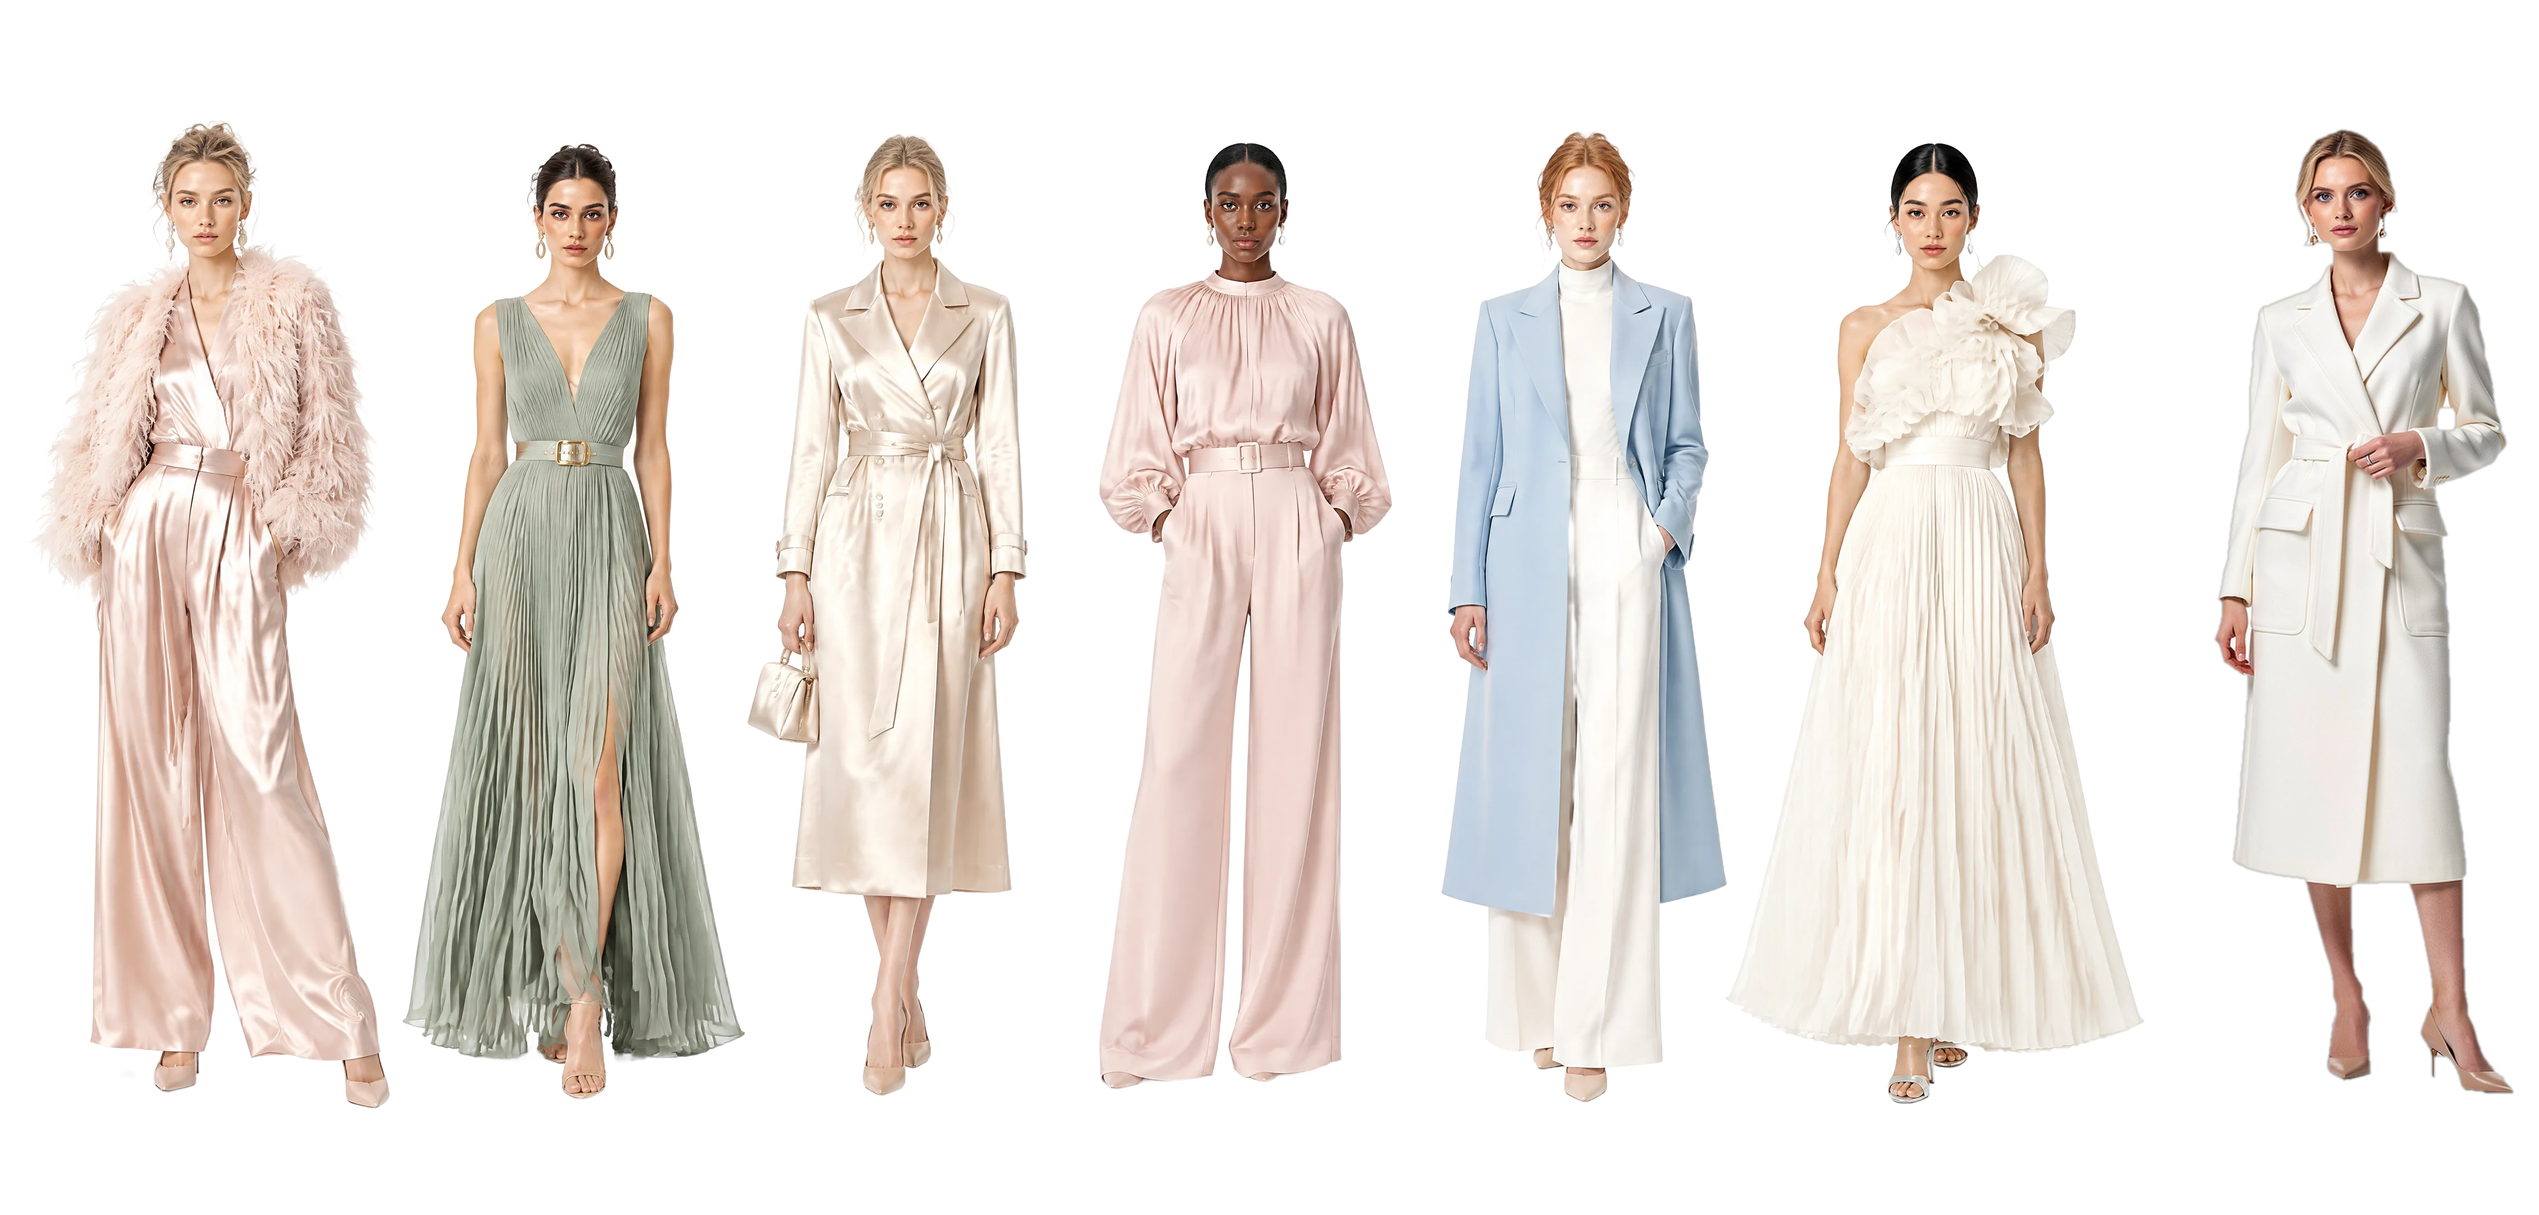
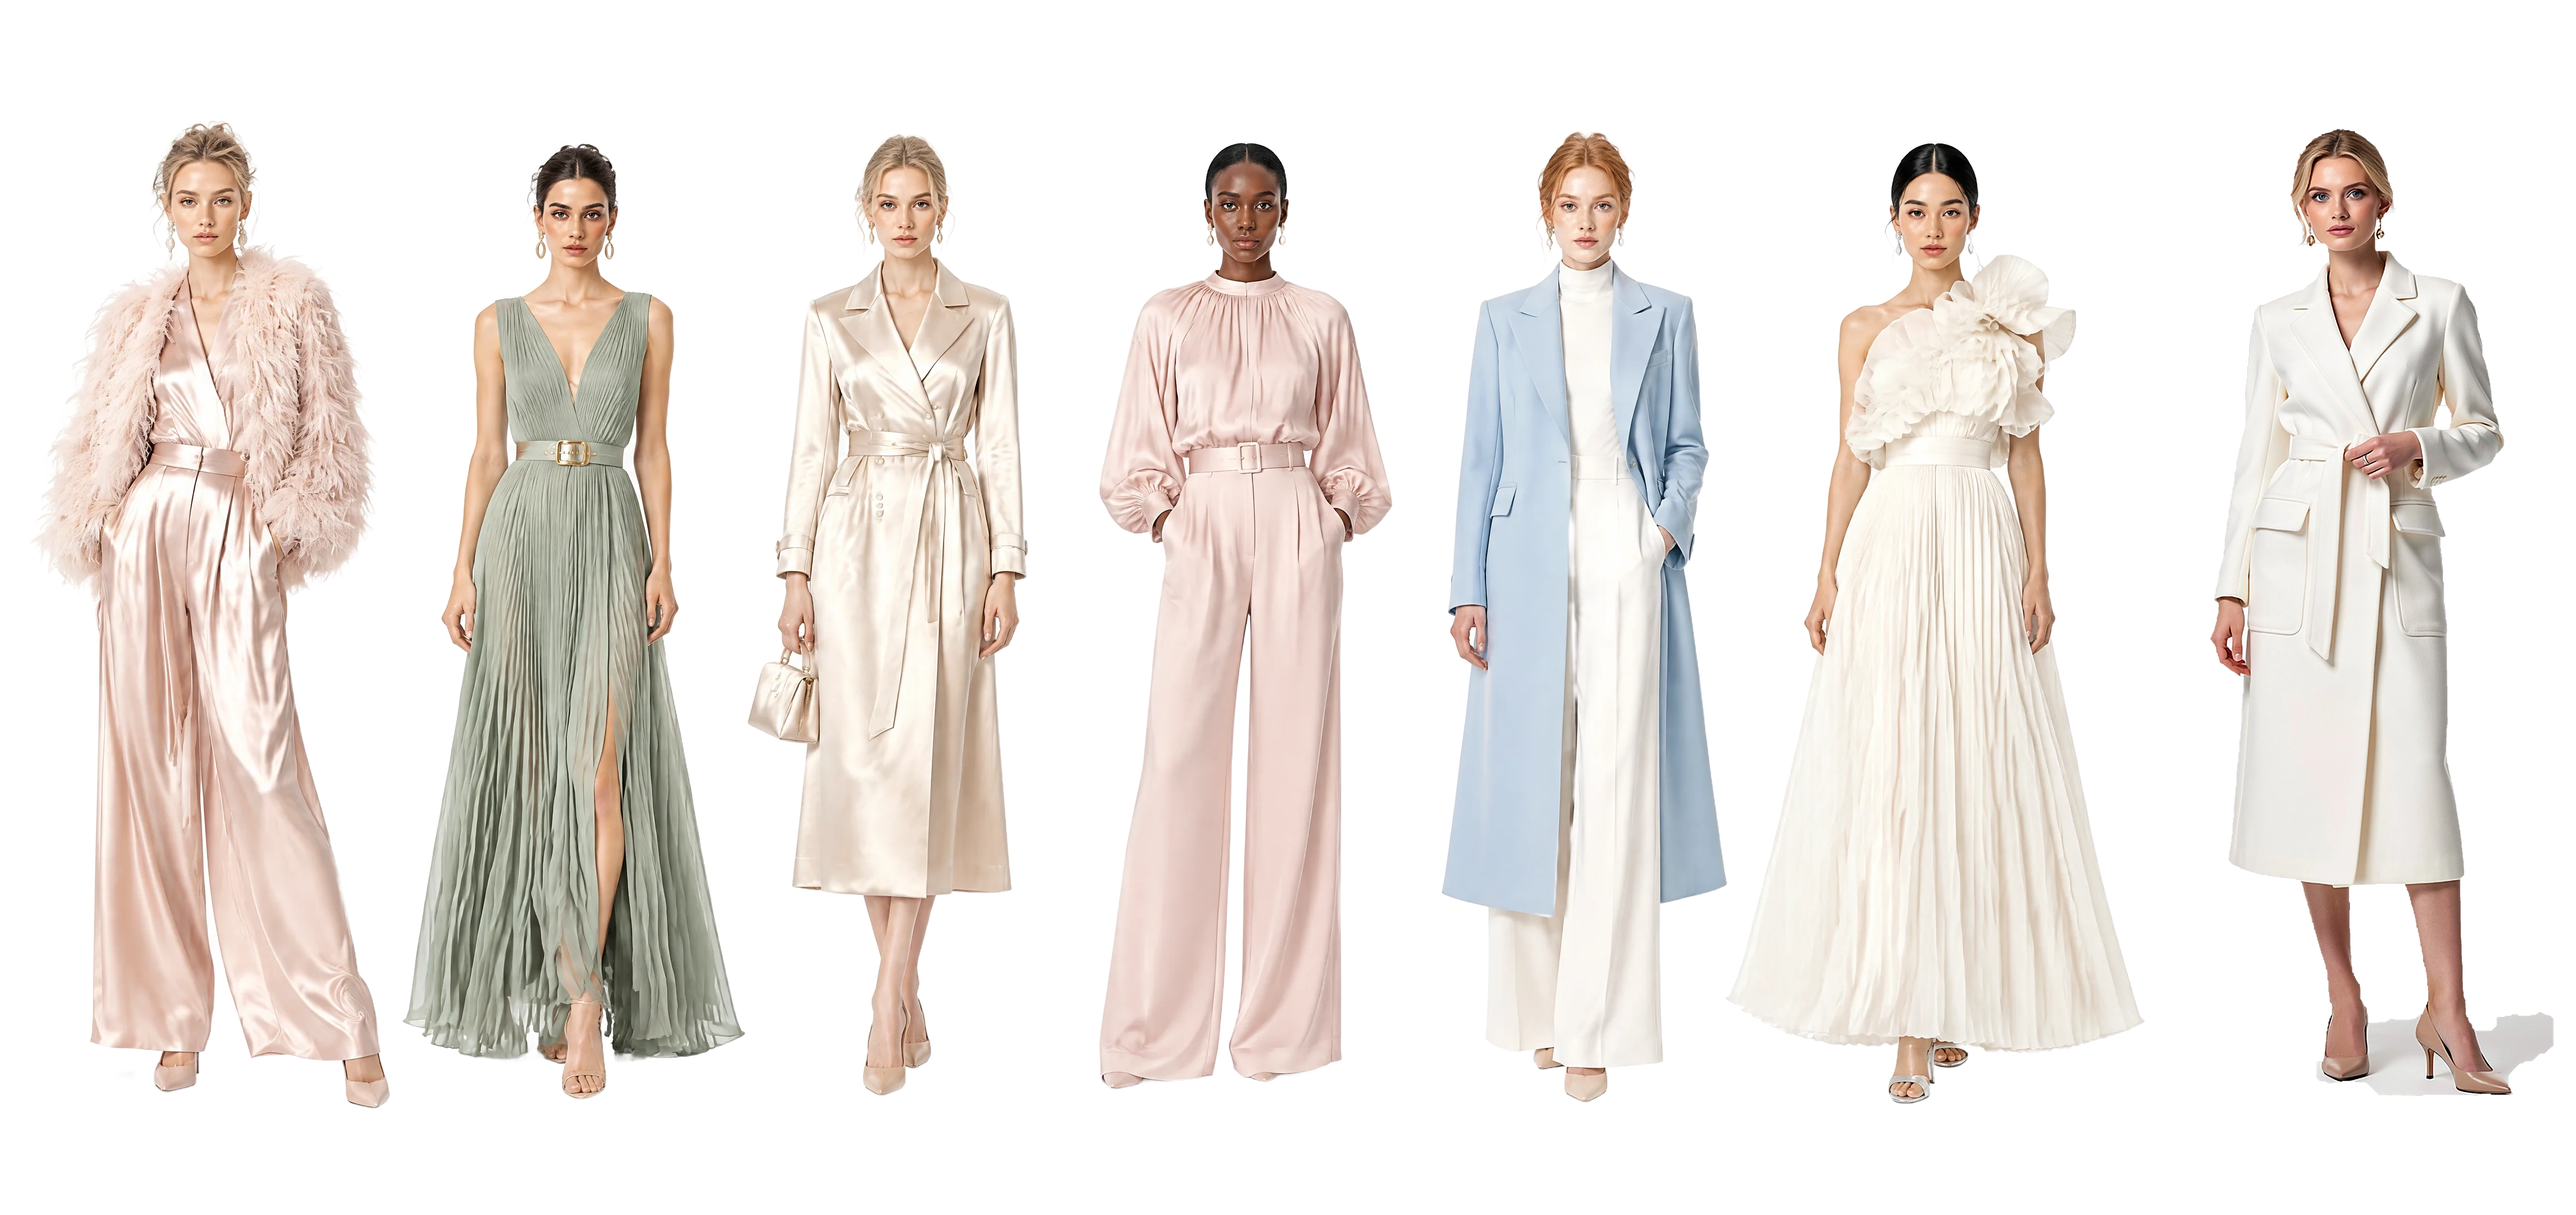
Look 07: 4K supersampled cut-out, sharper edges

Changed region(s): [[0.0312, 0.0931, 0.9998, 0.9306], [0.0625, 0.8685, 0.0937, 0.8995]]

diff --git a/index.html b/index.html
@@ -129,10 +129,10 @@ button:focus-visible,a:focus-visible{outline:2px solid var(--ink);outline-offset
 const SHOP_URL='';  // <- paste the Amazon idea-list URL here; every Shop link follows it
 const SHEET_LOOKS='assets/looks.webp';
 const SHEET_PIECES='assets/pieces.webp';
-const SHW=1128.25,SHH=540,PHW=960,PHH=720;
+const SHW=1144.5,SHH=540,PHW=960,PHH=720;
 
 // each look's box on the model sheet: x0, x1 (y is the same for all six)
-const LOOKS=[[12,176],[178,330],[331,470],[476,633],[634,767],[767,956],[972,1128.25]],Y0=48,Y1=496,FIRST=1;
+const LOOKS=[[12,176],[178,330],[331,470],[476,633],[634,767],[767,956],[972,1144.5]],Y0=48,Y1=496,FIRST=1;
 // each piece's box on the product sheet: x0, x1, y0, y1, name, label
 const ITEMS=[
   [26,224,28,214,'Feather Jacket','Outerwear'],[304,412,22,236,'Satin Wide Leg Trousers','Trousers'],
